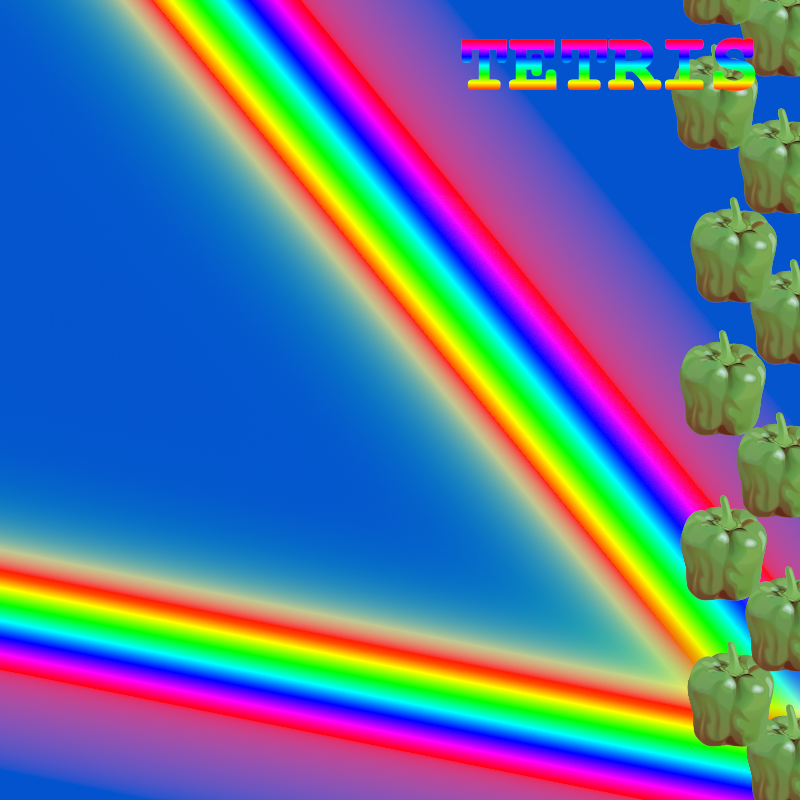
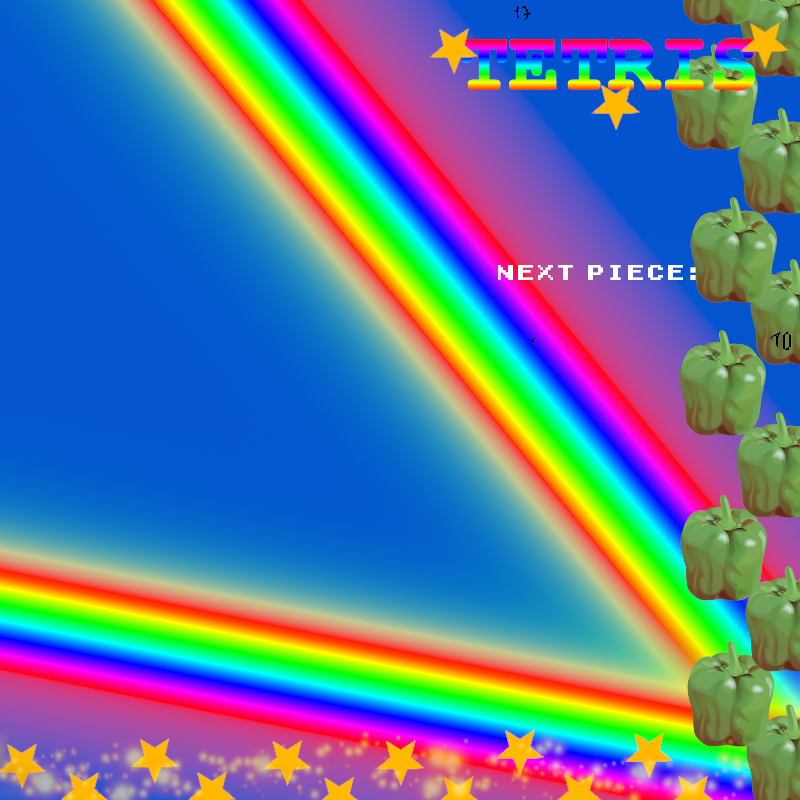
Wrapped next board into a class

diff --git a/source/Game.cpp b/source/Game.cpp
@@ -3,8 +3,6 @@
 //
 
 #include "../header/Game.h"
-#include "../header/ScoreBoard.h"
-#include <iostream>
 
 bool Game::run() {
     sf::RenderWindow window(sf::VideoMode(1000, 800), "Tetris");
@@ -19,16 +17,10 @@ bool Game::run() {
     background.setTexture(backgroundText);
     background.setScale((float)window.getSize().x / backgroundText.getSize().x, (float)window.getSize().y / backgroundText.getSize().y );
 
-    sf::Texture nextFieldText;
-    nextFieldText.loadFromFile("next_field.png");
-    sf::Sprite nextField;
-    nextField.setTexture(nextFieldText);
-    nextField.setPosition(X_OFFSET + (BOARD_WIDTH + 2) * 32, 8 * 32);
-
 
     Piece* currentPiece = pieceFactory.getPiece();
     Piece* nextPiece = pieceFactory.getPiece();
-    nextPiece->setPiecePosition(X_OFFSET / 32 + BOARD_WIDTH + 3, 10, false);
+    //nextPiece->setPiecePosition(X_OFFSET / 32 + BOARD_WIDTH + 3, 10, false);
     Piece* ghostPiece = pieceFactory.getGhostPiece(currentPiece);
     setGhostPosition(currentPiece, ghostPiece);
 
@@ -41,6 +33,13 @@ bool Game::run() {
                           32);
     scoreBoard.setLevel(this->level);
     scoreBoard.setScore(this->score);
+
+    NextBoard nextBoard("next_field.png",
+                        nextPiece,
+                        X_OFFSET + (BOARD_WIDTH + 2) * 32,
+                        8 * 32,
+                        32);
+
 
     bool deltaFlag = false;
     float deltaTime = 0;
@@ -74,8 +73,7 @@ bool Game::run() {
         keyTime = keyClock.getElapsedTime();
 
         if (sf::Keyboard::isKeyPressed(sf::Keyboard::Down) && keyTime.asSeconds() > 0.04) {
-            if (!fallDown(currentPiece))
-                fastFallFlag = true;
+            fastFallFlag = true;
             keyClock.restart();
         } else if (sf::Keyboard::isKeyPressed(sf::Keyboard::Left) && keyTime.asSeconds() > 0.08) {
             moveLeft(currentPiece, ghostPiece);
@@ -88,17 +86,22 @@ bool Game::run() {
 
         window.clear();
         window.draw(background);
-        window.draw(nextField);
+        window.draw(nextBoard);
         window.draw(scoreBoard);
         window.draw(gameBoard);
         window.draw(*currentPiece);
-        window.draw(*nextPiece);
         window.draw(*ghostPiece);
         window.display();
 
+
         frameTime = frameClock.getElapsedTime();
-        if (frameTime.asSeconds() - deltaTime > 0.5 - (level - 1) * 0.05| fastFallFlag) {
+        if (fastFallFlag | (frameTime.asSeconds() - deltaTime > 0.5 - (level - 1) * 0.05)) {
             frameClock.restart();
+
+            //if fast falling, increment the score
+            if (fastFallFlag)
+                this->score += 1;
+
             if (!fallDown(currentPiece)) {
                 gameOver = gameBoard.add(currentPiece);
 
@@ -110,7 +113,7 @@ bool Game::run() {
                 currentPiece->setPiecePosition(DEFAULT_X, DEFAULT_Y);
                 //get new piece as the next piece
                 nextPiece = pieceFactory.getPiece();
-                nextPiece->setPiecePosition(X_OFFSET / 32 + BOARD_WIDTH + 3, 10, false);
+                nextBoard.setPiece(nextPiece);
                 //get new ghost piece and update it's position
                 ghostPiece = pieceFactory.getGhostPiece(currentPiece);
 
@@ -120,18 +123,17 @@ bool Game::run() {
                 //setting ghost position after board updating
                 setGhostPosition(currentPiece, ghostPiece);
 
+                //update score fields
                 this->totalRows += clearedRows;
                 updateScore(clearedRows);
                 updateLevel();
 
-                scoreBoard.setScore(this->score);
-                scoreBoard.setLevel(this->level);
-
-
-
-                //TODO score updating here i guess
             }
             fastFallFlag = false;
+
+            //update scoreboard
+            scoreBoard.setScore(this->score);
+            scoreBoard.setLevel(this->level);
         }
     }
 

diff --git a/source/NextBoard.cpp b/source/NextBoard.cpp
@@ -1,0 +1,31 @@
+//
+// Created by musiek on 12/6/20.
+//
+
+#include "../header/NextBoard.h"
+
+NextBoard::NextBoard(std::string textfilename, Piece *piece, int x, int y, int tileSize) {
+    if (!texture.loadFromFile(textfilename)) {
+        std::cout << "Scoreboard texture:"<< textfilename <<  " loading failed." << std::endl;
+    }
+    background.setTexture(texture);
+    background.setPosition(x, y);
+
+    this->tileSize = tileSize;
+
+    this->position.setPos(x, y);
+
+    this->piece = piece;
+    this->piece->setPiecePosition(x / tileSize + 1, y / tileSize + 2, false);
+
+}
+
+void NextBoard::setPiece(Piece *piece) {
+    this->piece = piece;
+    this->piece->setPiecePosition(position.getX()/tileSize + 1, position.getY()/tileSize + 2, false);
+}
+
+void NextBoard::draw(sf::RenderTarget &target, sf::RenderStates states) const {
+    target.draw(background);
+    target.draw(*piece);
+}

diff --git a/header/NextBoard.h b/header/NextBoard.h
@@ -1,0 +1,30 @@
+//
+// Created by musiek on 12/6/20.
+//
+
+#ifndef TETRIS_CPP_NEXTBOARD_H
+#define TETRIS_CPP_NEXTBOARD_H
+
+#include <SFML/Graphics.hpp>
+#include "Piece.h"
+#include <iostream>
+
+class NextBoard : public sf::Drawable, sf::Transformable{
+private:
+    sf::Sprite background;
+    sf::Texture texture;
+    Piece* piece;
+    Point position;
+    int tileSize;
+
+public:
+    NextBoard(std::string textfilename, Piece* piece, int x, int y, int tileSize);
+
+    void setPiece(Piece* piece);
+
+protected:
+    void draw(sf::RenderTarget &target, sf::RenderStates states) const override;
+};
+
+
+#endif //TETRIS_CPP_NEXTBOARD_H

diff --git a/source/main.cpp b/source/main.cpp
@@ -6,14 +6,13 @@ int main() {
     //TODO state machine for HOLD and clearing animations to implement in the future??
     //TODO sounds
     //TODO basic layout with background placeholder
-    //TODO adaptive levels
     //TODO HOLD function
     //TODO ability to configure board's size
-    //TODO ghost piece
     //TODO errors while loading things
     //TODO make rotation with keypressed/keyreleased flag
     //TODO separate class for next piece with background texture and piece for drawing, methods for updating the current piece
     //as it will make the code clearer
+    //TODO game over
 
     Game game;
     game.run();

diff --git a/source/ScoreBoard.cpp b/source/ScoreBoard.cpp
@@ -3,7 +3,6 @@
 //
 
 #include "../header/ScoreBoard.h"
-#include <iostream>
 
 
 ScoreBoard::ScoreBoard(std::string textfilename, std::string fontname, int level, int score, int x, int y, int tileSize) {
@@ -13,6 +12,8 @@ ScoreBoard::ScoreBoard(std::string textfilename, std::string fontname, int level
     }
     background.setTexture(texture);
     background.setPosition(x, y);
+
+    this->position.setPos(x, y);
 
     this->level = level;
     this->score = score;

diff --git a/header/ScoreBoard.h b/header/ScoreBoard.h
@@ -7,9 +7,12 @@
 
 
 #include <SFML/Graphics.hpp>
+#include <iostream>
+#include "Point.h"
 
 class ScoreBoard : public sf::Drawable, sf::Transformable {
 private:
+    Point position;
     sf::Font font;
     sf::Sprite background;
     sf::Texture texture;

diff --git a/header/Game.h b/header/Game.h
@@ -10,6 +10,9 @@
 #include "Board.h"
 #include "../header/LPiece.h"
 #include "PieceFactory.h"
+#include "../header/ScoreBoard.h"
+#include <iostream>
+#include "../header/NextBoard.h"
 
 
 class Game {

diff --git a/source/Board.cpp b/source/Board.cpp
@@ -2,7 +2,6 @@
 // Created by musiek on 11/21/20.
 //
 
-#include <iostream>
 #include "../header/Board.h"
 
 bool Board::init(std::string tileset, int tileSize) {
